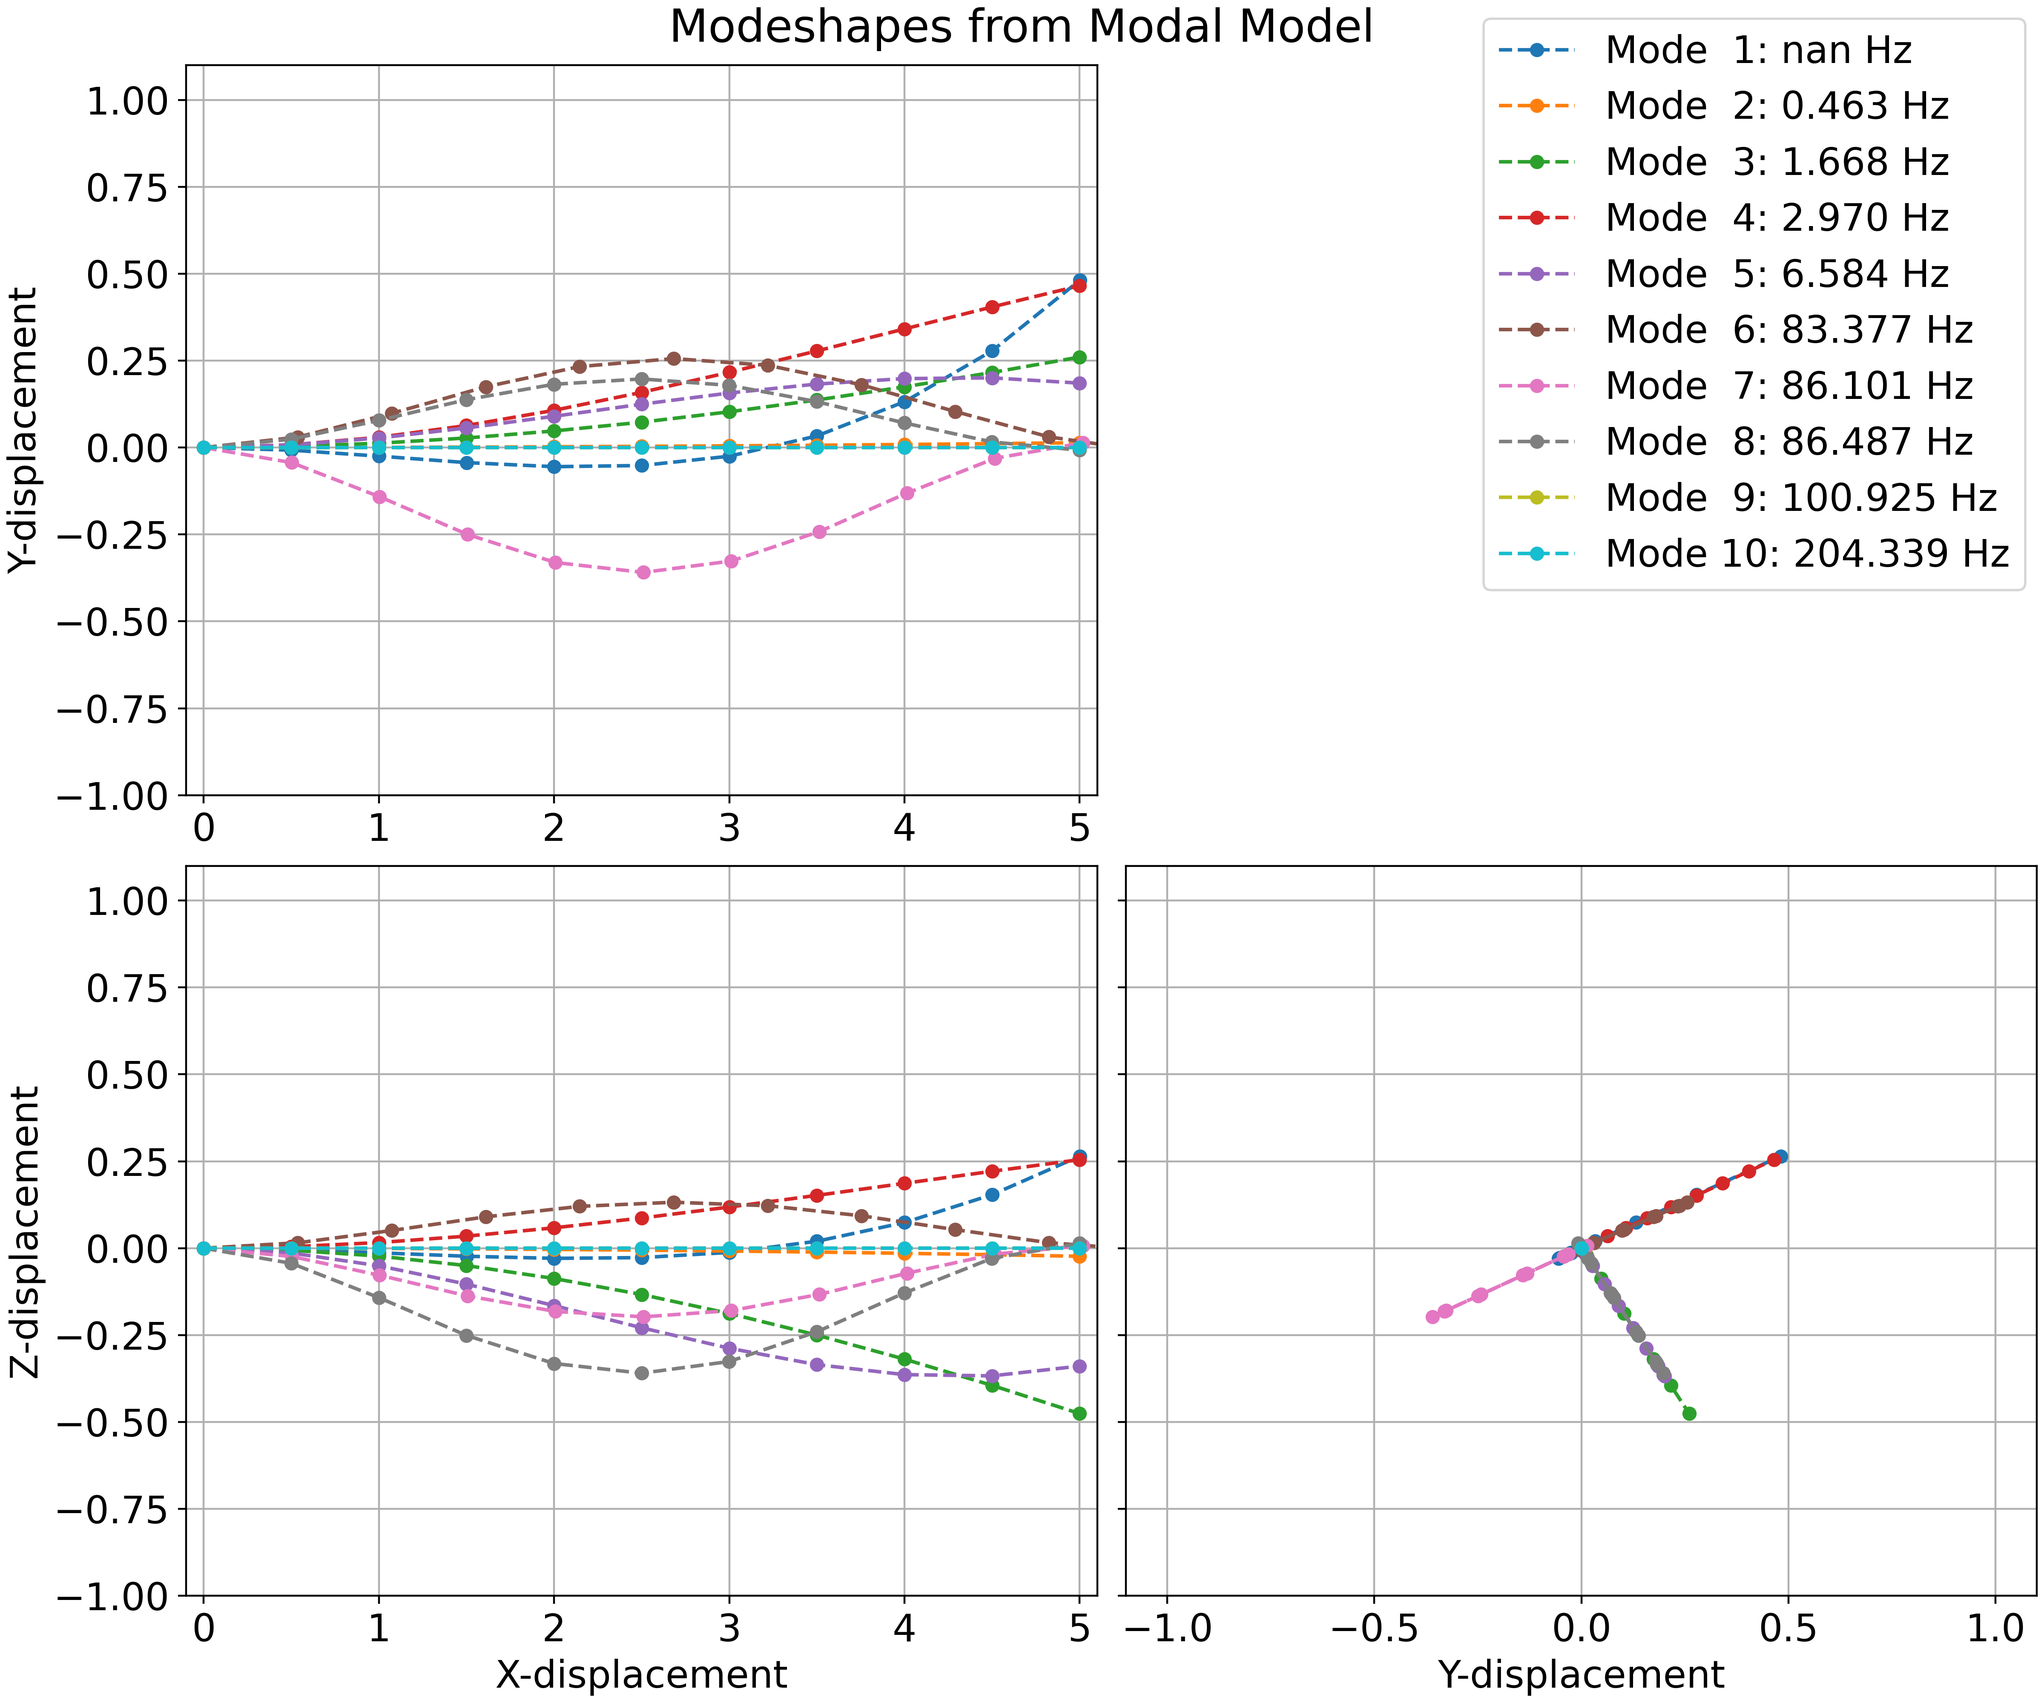
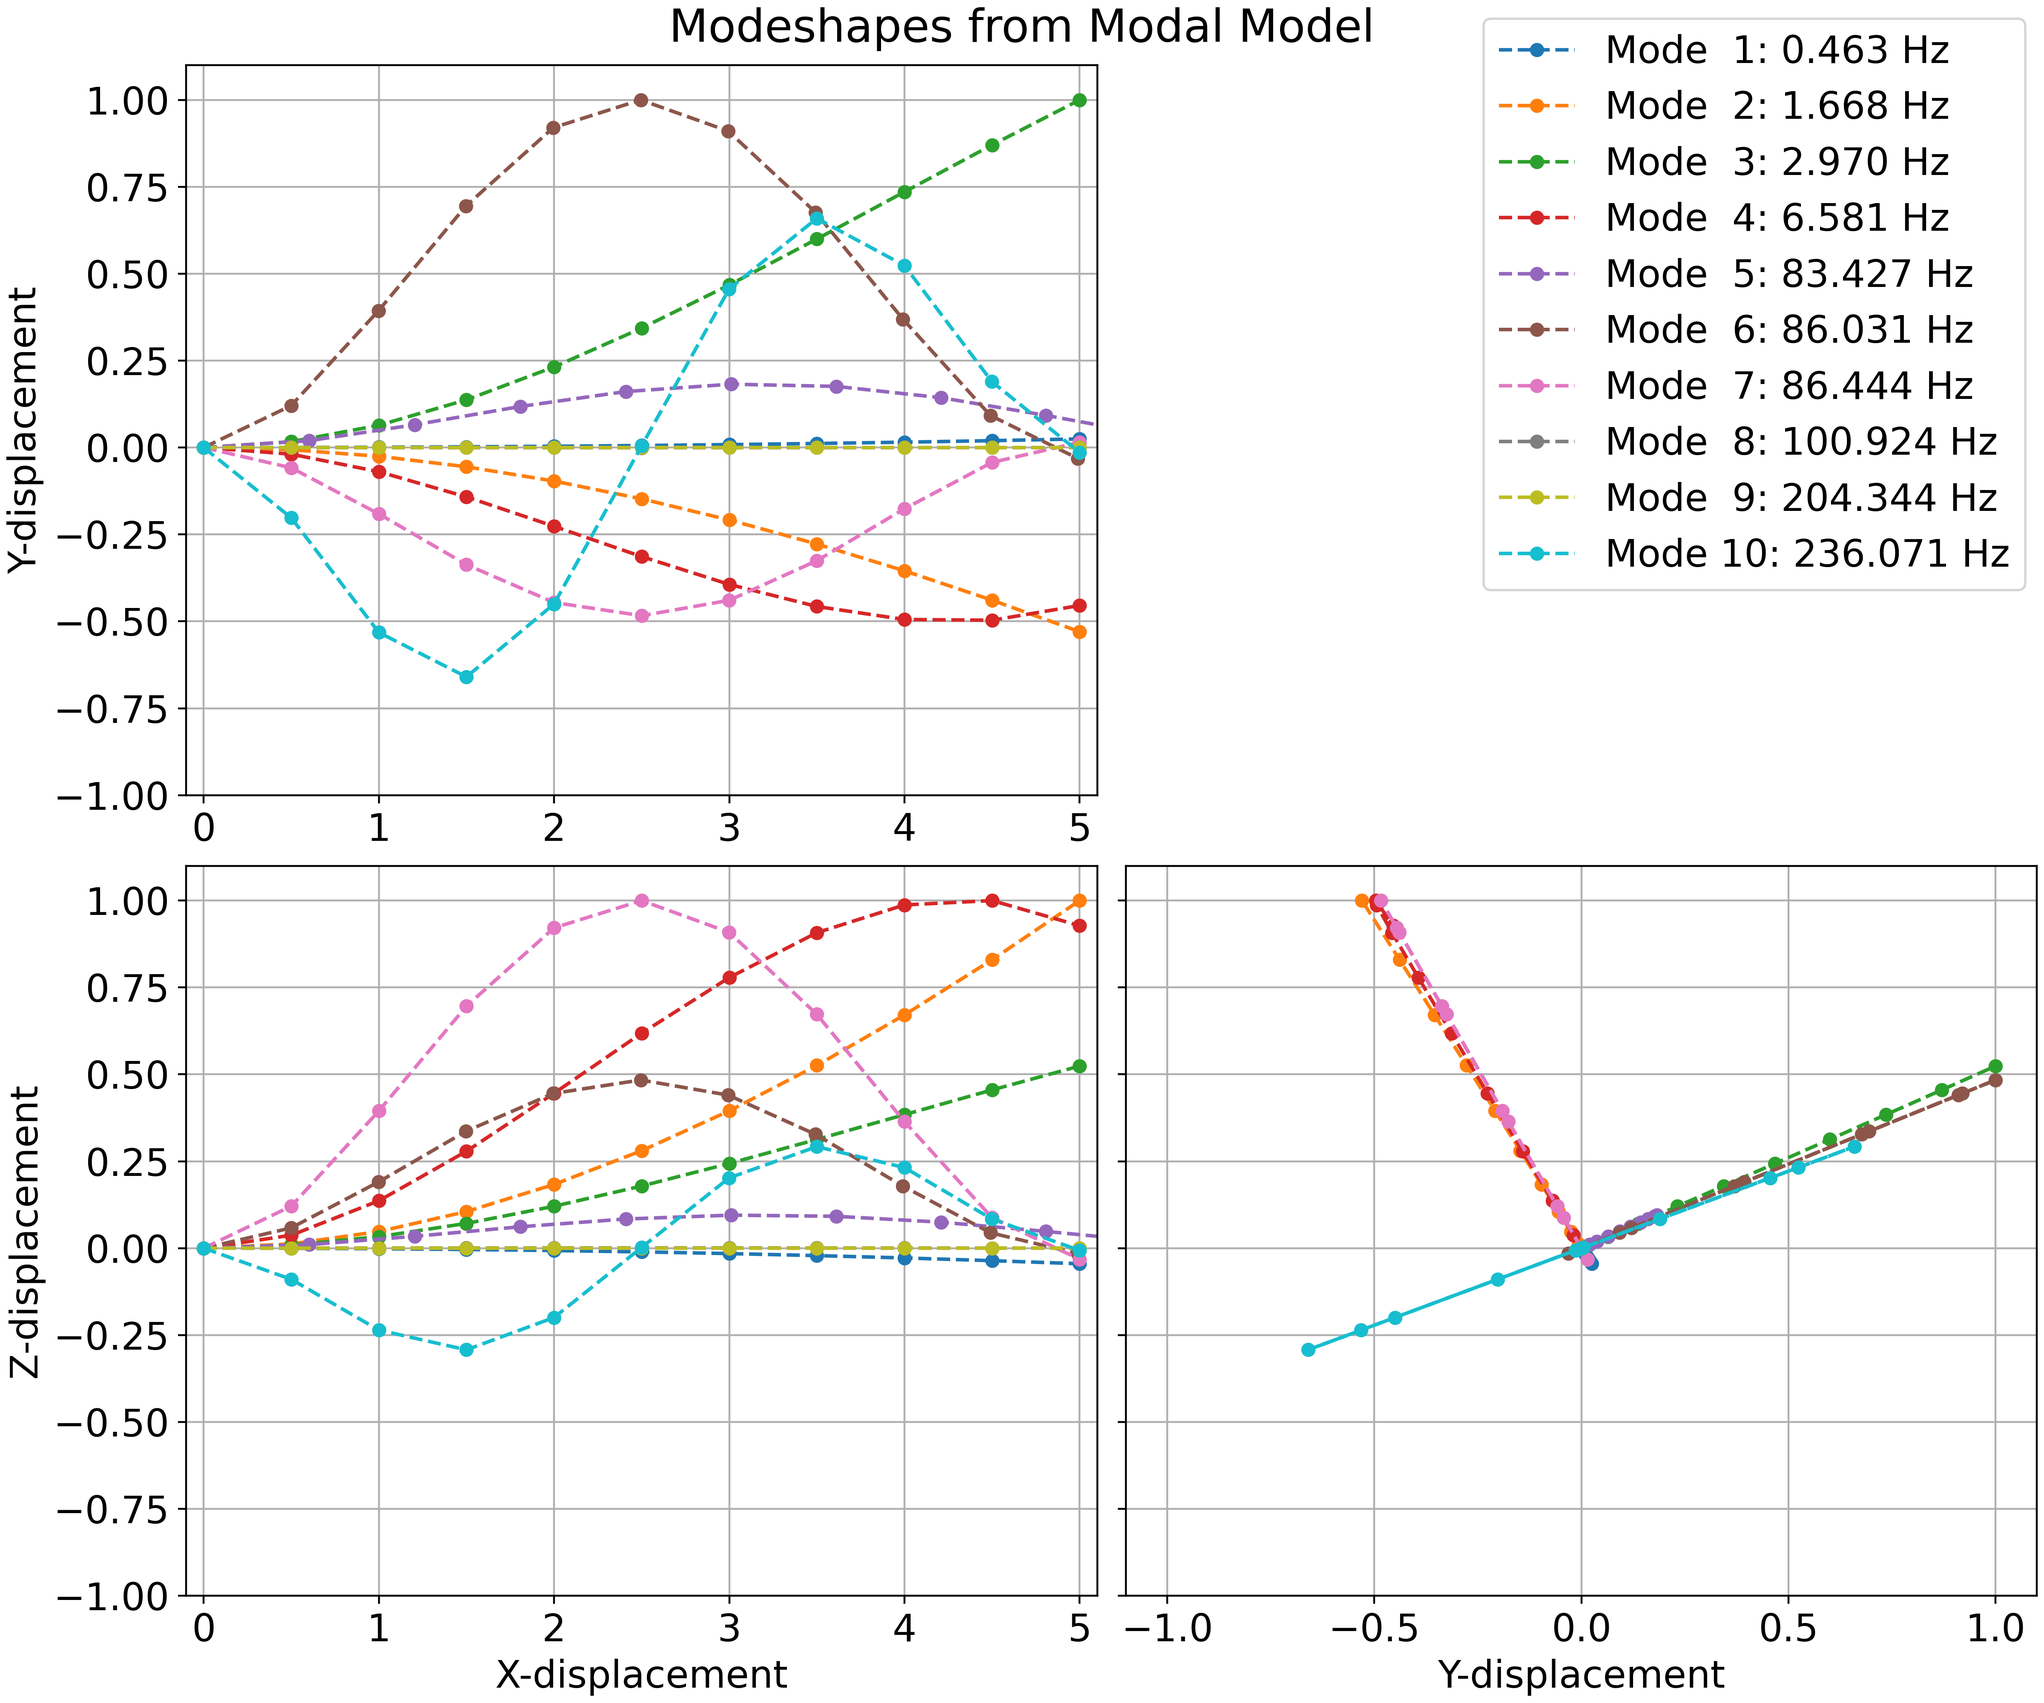
splitting up eigenproblem quite a bit

diff --git a/reports/problem1/n2.html b/reports/problem1/n2.html
@@ -3257,7 +3257,7 @@ return _;
 </div>
 
 <script type="text/javascript">
[2 lines of base64/hex data omitted]
 </script>
 
 <script type="text/javascript">

diff --git a/show_modeshape.py b/show_modeshape.py
@@ -158,35 +158,35 @@ my_path = os.path.dirname(__file__)
 fname = 'modeshapes'
 plt.savefig(os.path.join(my_path,(fname+'.png')), dpi=400, format='png')
 
-## --- Curvatures Plot
-fig2, axs2 = plt.subplot_mosaic([['ul', '.'], ['ll', 'lr']], figsize=(12, 10), layout="constrained", sharey=True)
+# ## --- Curvatures Plot
+# fig2, axs2 = plt.subplot_mosaic([['ul', '.'], ['ll', 'lr']], figsize=(12, 10), layout="constrained", sharey=True)
 
-for i in range(nMode):
-    axs2['ul'].plot(x_nodes[:,i], y_dd_nodes[:,i], label='Mode %2d: %2.3f Hz' %((i+1, prob['eig_freqs'][i])), ls='--', marker='o', ms=5)
-    axs2['ll'].plot(x_nodes[:,i], z_dd_nodes[:,i], label='Mode %2d: %2.3f Hz' %((i+1, prob['eig_freqs'][i])), ls='--', marker='o', ms=5)
-    axs2['lr'].plot(y_dd_nodes[:,i], z_dd_nodes[:,i], label='Mode %2d: %2.3f Hz' %((i+1, prob['eig_freqs'][i])), ls='--', marker='o', ms=5)
+# for i in range(nMode):
+#     axs2['ul'].plot(x_nodes[:,i], y_dd_nodes[:,i], label='Mode %2d: %2.3f Hz' %((i+1, prob['eig_freqs'][i])), ls='--', marker='o', ms=5)
+#     axs2['ll'].plot(x_nodes[:,i], z_dd_nodes[:,i], label='Mode %2d: %2.3f Hz' %((i+1, prob['eig_freqs'][i])), ls='--', marker='o', ms=5)
+#     axs2['lr'].plot(y_dd_nodes[:,i], z_dd_nodes[:,i], label='Mode %2d: %2.3f Hz' %((i+1, prob['eig_freqs'][i])), ls='--', marker='o', ms=5)
 
-# Set labels and legend
-axs2['ul'].grid()
-# axs2['ul'].set_xlim(-0.1,5.1)
-axs2['ul'].set_ylabel('Y-displacement')
-axs2['ll'].grid()
-# axs2['ll'].set_xlim(-0.1,5.1)
-axs2['ll'].set_xlabel('X-displacement')
-axs2['ll'].set_ylabel('Z-displacement')
-# axs2['ll'].set_ylim(-1,1.1)
-axs2['lr'].grid()
-# axs2['lr'].set_xlim(-1.1,1.1)
-# axs2['lr'].set_ylim(-1,1.1)
-axs2['lr'].set_xlabel('Y-displacement')
+# # Set labels and legend
+# axs2['ul'].grid()
+# # axs2['ul'].set_xlim(-0.1,5.1)
+# axs2['ul'].set_ylabel('Y-displacement')
+# axs2['ll'].grid()
+# # axs2['ll'].set_xlim(-0.1,5.1)
+# axs2['ll'].set_xlabel('X-displacement')
+# axs2['ll'].set_ylabel('Z-displacement')
+# # axs2['ll'].set_ylim(-1,1.1)
+# axs2['lr'].grid()
+# # axs2['lr'].set_xlim(-1.1,1.1)
+# # axs2['lr'].set_ylim(-1,1.1)
+# axs2['lr'].set_xlabel('Y-displacement')
 
-handles, labels = axs2['ul'].get_legend_handles_labels()
-fig2.legend(handles, labels, loc='upper right')
-fig2.suptitle('Curvatures from Modal Model')
-my_path = os.path.dirname(__file__)
-fname = 'curvatures'
-plt.savefig(os.path.join(my_path,(fname+'.png')), dpi=400, format='png')
+# handles, labels = axs2['ul'].get_legend_handles_labels()
+# fig2.legend(handles, labels, loc='upper right')
+# fig2.suptitle('Curvatures from Modal Model')
+# my_path = os.path.dirname(__file__)
+# fname = 'curvatures'
+# plt.savefig(os.path.join(my_path,(fname+'.png')), dpi=400, format='png')
 
-# Show plots
-plt.show()
-plt.tight_layout()
+# # Show plots
+# plt.show()
+# plt.tight_layout()

diff --git a/eigenvectors.py b/eigenvectors.py
@@ -2,8 +2,8 @@ import numpy as np
 import scipy.linalg
 import openmdao.api as om
 
-class Eigenproblem(om.ExplicitComponent):
-    # Full solution to eigenvalue problem
+class Eigenvecs(om.ExplicitComponent):
+    # Solution to eigenvalue problem with eigenvectors for manipulation
 
     def initialize(self):
         self.options.declare('nodal_data', types=dict)
@@ -16,11 +16,6 @@ class Eigenproblem(om.ExplicitComponent):
         self.add_input('Ar_eig', val=np.ones((nDOF_r, nDOF_r)))
 
         self.add_output('Q_raw', val=np.ones((nDOF_r, nDOF_r)))
-        self.add_output('eig_freqs_raw', val=np.zeros((nDOF_r, nDOF_r)), units='1/s')
-
-    # def setup_partials(self):
-    #     self.declare_partials('Q_raw', ['Mr_glob', 'Kr_glob'])
-    #     self.declare_partials('eig_freqs_raw', ['Mr_glob', 'Kr_glob'])
 
     def compute(self, inputs, outputs):
         nDOF = self.nodal_data['nDOF_r']
@@ -31,7 +26,6 @@ class Eigenproblem(om.ExplicitComponent):
         D, Q = scipy.linalg.eig(a=A, b=None, left=False, right=True)
 
         outputs['Q_raw'] = Q
-        outputs['eig_freqs_raw'] = np.diag(D)
 
         self.Q = Q
         self.D = np.diag(D) # Must keep complex eigenvalues to have correct derivatives    
@@ -62,16 +56,8 @@ class Eigenproblem(om.ExplicitComponent):
             if 'Q_raw' in d_outputs:
                 if 'Ar_eig' in d_inputs:
                     d_inputs['Ar_eig'] += np.real(scipy.linalg.inv(Q).T @ (np.multiply(F, (Q.T @ d_outputs['Q_raw']))) @ Q.T)
-            if 'eig_freqs_raw' in d_outputs:
-                if 'Ar_eig' in d_inputs:
-                    # d_inputs['Ar_eig'] += np.real(scipy.linalg.inv(Q).T @ (d_outputs['eig_freqs_raw']) @ Q.T)
-                    # d_inputs['Ar_eig'] += np.real(scipy.linalg.inv(Q).T @ (d_outputs['eig_freqs_raw'] + np.multiply(F, (Q.T @ d_outputs['Q_raw']))) @ Q.T)
-                    d_inputs['Ar_eig'] += np.real((d_outputs['eig_freqs_raw'] @ np.conj(Q.T) @ np.conj(Q)) * scipy.linalg.inv(np.conj(Q) @ np.conj(Q.T)))
 
         elif mode == 'fwd':
             if 'Q_raw' in d_outputs:
                 if 'Ar_eig' in d_inputs:
                     d_outputs['Q_raw'] += np.real(Q @ np.multiply(F, (np.linalg.inv(Q) @ d_inputs['Ar_eig'] @ Q)))
-            if 'eig_freqs_raw' in d_outputs:
-                if 'Ar_eig' in d_inputs:
-                    d_outputs['eig_freqs_raw'] += np.real(np.multiply(np.eye(nDOF), (np.linalg.inv(Q) @ d_inputs['Ar_eig'] @ Q)))

diff --git a/eigenproblem_santize.py b/eigenproblem_santize.py
@@ -12,8 +12,8 @@ class EigenSantize(ExplicitComponent):
         nDOF_r = self.nodal_data['nDOF_r']
         nMode = self.nodal_data['nMode']
 
-        self.add_input('Q_raw', val=np.zeros((nDOF_r, nDOF_r)))
-        self.add_input('eig_freqs_raw', val=np.zeros((nDOF_r, nDOF_r)), units='1/s')
+        self.add_input('Q_mass_norm', val=np.zeros((nDOF_r, nDOF_r)))
+        self.add_input('eigenvals_raw', val=np.zeros((nDOF_r, nDOF_r)), units='1/s')
     
         self.add_output('Q_full', val=np.zeros((nDOF_tot, nDOF_r)))
         self.add_output('eig_freqs_full', val=np.zeros(nDOF_r), units='1/s')
@@ -28,14 +28,8 @@ class EigenSantize(ExplicitComponent):
     def compute(self, inputs, outputs):
         nDOF = self.nodal_data['nDOF_r']
         Tr = self.nodal_data['Tr']
-        Q = inputs['Q_raw']
-        D = inputs['eig_freqs_raw']
-
-        # # Normalize eigenvectors
-        # for j in range(M.shape[1]):
-        #     q_j = Q[:,j]
-        #     modalmass_j = np.dot(q_j.T,M).dot(q_j)
-        #     Q[:,j] = Q[:,j]/np.sqrt(modalmass_j)
+        Q = inputs['Q_mass_norm']
+        D = inputs['eigenvals_raw']
 
         # Sort and diagonalize
         lambdaDiag = np.diag(D)
@@ -45,12 +39,12 @@ class EigenSantize(ExplicitComponent):
         # Export frequencies
         Lambda = np.sqrt(lambdaDiag)/(2*np.pi) # frequencies [Hz]
 
-        # # --- Renormalize modes 
-        # for j in range(Q.shape[1]):
-        #     q_j = Q[:,j]
-        #     iMax = np.argmax(np.abs(q_j))
-        #     scale = q_j[iMax] # not using abs to normalize to "1" and not "+/-1"
-        #     Q[:,j]= Q[:,j]/scale
+        # --- Renormalize modes 
+        for j in range(Q.shape[1]):
+            q_j = Q[:,j]
+            iMax = np.argmax(np.abs(q_j))
+            scale = q_j[iMax] # not using abs to normalize to "1" and not "+/-1"
+            Q[:,j]= Q[:,j]/scale
 
         # --- Add removed DOF back into eigenvectors
         Qr = Q

diff --git a/fem_group.py b/fem_group.py
@@ -17,6 +17,11 @@ from modeshape_dof_reduce import ModeshapeDOFReduce
 from modeshape_M_inv import ModeshapeMInv
 from modeshape_eigmatrix import ModeshapeEigmatrix
 from eigenproblem import Eigenproblem
+
+from eigenvectors import Eigenvecs
+from eigenvectors_mass_norm import EigenvecsMassNorm
+from eigenvalues import Eigenvals
+
 from eigenproblem_santize import EigenSantize
 from modal_reduction import ModalReduction
 
@@ -97,15 +102,30 @@ class FEM(om.Group):
             ModeshapeEigmatrix(nodal_data=nodal_data),
             promotes_inputs=['Mr_glob_inv', 'Kr_glob'],
             promotes_outputs=['Ar_eig'])
-
-        self.add_subsystem('eigenproblem',
-            Eigenproblem(nodal_data=nodal_data),
+        
+        self.add_subsystem('eigenvectors',
+            Eigenvecs(nodal_data=nodal_data),
             promotes_inputs=['Ar_eig'],
-            promotes_outputs=['Q_raw', 'eig_freqs_raw'])
+            promotes_outputs=['Q_raw'])
+
+        self.add_subsystem('eigenvectors_mass_norm',
+            EigenvecsMassNorm(nodal_data=nodal_data),
+            promotes_inputs=['Mr_glob', 'Q_raw'],
+            promotes_outputs=['Q_mass_norm'])
+        
+        self.add_subsystem('eigenvalues',
+            Eigenvals(nodal_data=nodal_data),
+            promotes_inputs=['Kr_glob', 'Q_mass_norm'],
+            promotes_outputs=['eigenvals_raw'])
+
+        # self.add_subsystem('eigenproblem',
+        #     Eigenproblem(nodal_data=nodal_data),
+        #     promotes_inputs=['Ar_eig'],
+        #     promotes_outputs=['Q_raw', 'eig_freqs_raw'])
 
         self.add_subsystem('eigen_sanitize',
             EigenSantize(nodal_data=nodal_data),
-            promotes_inputs=['Q_raw', 'eig_freqs_raw'],
+            promotes_inputs=['Q_mass_norm', 'eigenvals_raw'],
             promotes_outputs=['Q_full', 'eig_freqs_full'])
 
         self.add_subsystem('reduce_modes',

diff --git a/partials_check.py b/partials_check.py
@@ -100,7 +100,7 @@ apart_tol = 1.e-5
 rpart_tol = 1.e-6
 
 # check_partials_data = prob.check_partials(method='fd', form='central', abs_err_tol=apart_tol, rel_err_tol=rpart_tol, step_calc='rel_avg', step=1e-8, show_only_incorrect=True, compact_print=True)
-check_partials_data = prob.check_partials(method='fd',form='forward', includes=comp_to_check, step_calc='rel_avg', step=1e-8, show_only_incorrect=False, compact_print=True)
-# check_partials_data = prob.check_partials(method='cs', includes=comp_to_check, show_only_incorrect=False, compact_print=True)
+# check_partials_data = prob.check_partials(method='fd',form='forward', includes=comp_to_check, step_calc='rel_avg', step=1e-8, show_only_incorrect=False, compact_print=True)
+check_partials_data = prob.check_partials(method='cs', includes=comp_to_check, show_only_incorrect=False, compact_print=True)
 
-# om.partial_deriv_plot('tip_mass_mat', 'ref_to_cog', check_partials_data, binary=True)
+# om.partial_deriv_plot('Ar_eig', 'Kr_glob', check_partials_data, binary=True)

diff --git a/eigenvectors_mass_norm.py b/eigenvectors_mass_norm.py
@@ -1,0 +1,29 @@
+import numpy as np
+import openmdao.api as om
+
+class EigenvecsMassNorm(om.ExplicitComponent):
+    # Mass normalize eigenvectors
+
+    def initialize(self):
+        self.options.declare('nodal_data', types=dict)
+
+    def setup(self):
+        self.nodal_data = self.options['nodal_data']
+        nDOF_r = self.nodal_data['nDOF_r']
+
+        self.add_input('Mr_glob', val=np.ones((nDOF_r, nDOF_r)))
+        self.add_input('Q_raw', val=np.ones((nDOF_r, nDOF_r)))
+
+        self.add_output('Q_mass_norm', val=np.zeros((nDOF_r, nDOF_r)), units='1/s')
+
+    def compute(self, inputs, outputs):
+        nDOF = self.nodal_data['nDOF_r']
+        Q = inputs['Q_raw']
+        M = inputs['Mr_glob']
+                
+        for j in range(M.shape[1]):
+            q_j = Q[:,j]
+            modalmass_j = np.dot(q_j.T,M).dot(q_j)
+            Q[:,j]= Q[:,j]/np.sqrt(modalmass_j)
+
+        outputs['Q_mass_norm'] = Q

diff --git a/eigenvalues.py b/eigenvalues.py
@@ -1,0 +1,28 @@
+import numpy as np
+import scipy.linalg
+import openmdao.api as om
+
+class Eigenvals(om.ExplicitComponent):
+    # Eigenvalues from mass-normed eigenvectors for robustness
+
+    def initialize(self):
+        self.options.declare('nodal_data', types=dict)
+
+    def setup(self):
+        self.nodal_data = self.options['nodal_data']
+        nDOF_r = self.nodal_data['nDOF_r']
+        nDOF_tot = self.nodal_data['nDOF_tot']
+
+        self.add_input('Kr_glob', val=np.ones((nDOF_r, nDOF_r)))
+        self.add_input('Q_mass_norm', val=np.ones((nDOF_r, nDOF_r)))
+
+        self.add_output('eigenvals_raw', val=np.zeros((nDOF_r, nDOF_r)), units='1/s')
+
+    def compute(self, inputs, outputs):
+        nDOF = self.nodal_data['nDOF_r']
+        K = inputs['Kr_glob']
+        Q = inputs['Q_mass_norm']
+                
+        Lambda=np.dot(Q.T,K).dot(Q)
+
+        outputs['eigenvals_raw'] = Lambda

diff --git a/modeshape_M_inv.py b/modeshape_M_inv.py
@@ -1,4 +1,5 @@
 import numpy as np
+import scipy.linalg
 from openmdao.api import ExplicitComponent
 
 class ModeshapeMInv(ExplicitComponent):
@@ -19,9 +20,14 @@ class ModeshapeMInv(ExplicitComponent):
         self.declare_partials('Mr_glob_inv', 'Mr_glob')
 
     def compute(self, inputs, outputs):
-        outputs['Mr_glob_inv'] = np.linalg.inv(inputs['Mr_glob'])
+        M = inputs['Mr_glob']
+        M_inv = scipy.linalg.inv(M)
+        # Remove noise from inversion
+        M_inv[M==0.0] = 0.0
+
+        outputs['Mr_glob_inv'] = M_inv        
 
     def compute_partials(self, inputs, partials):
         M = inputs['Mr_glob']
 
-        partials['Mr_glob_inv', 'Mr_glob'] = np.kron(np.linalg.inv(M), -1. * np.linalg.inv(M).T)
+        partials['Mr_glob_inv', 'Mr_glob'] = np.kron(scipy.linalg.inv(M), -1. * scipy.linalg.inv(M).T)

diff --git a/modeshape_eigmatrix.py b/modeshape_eigmatrix.py
@@ -22,7 +22,7 @@ class ModeshapeEigmatrix(ExplicitComponent):
         K = inputs['Kr_glob']
         M_inv = inputs['Mr_glob_inv']
 
-        outputs['Ar_eig'] = np.matmul(M_inv, K)
+        outputs['Ar_eig'] = M_inv @ K
 
     def compute_partials(self, inputs, partials):
         K = inputs['Kr_glob']
